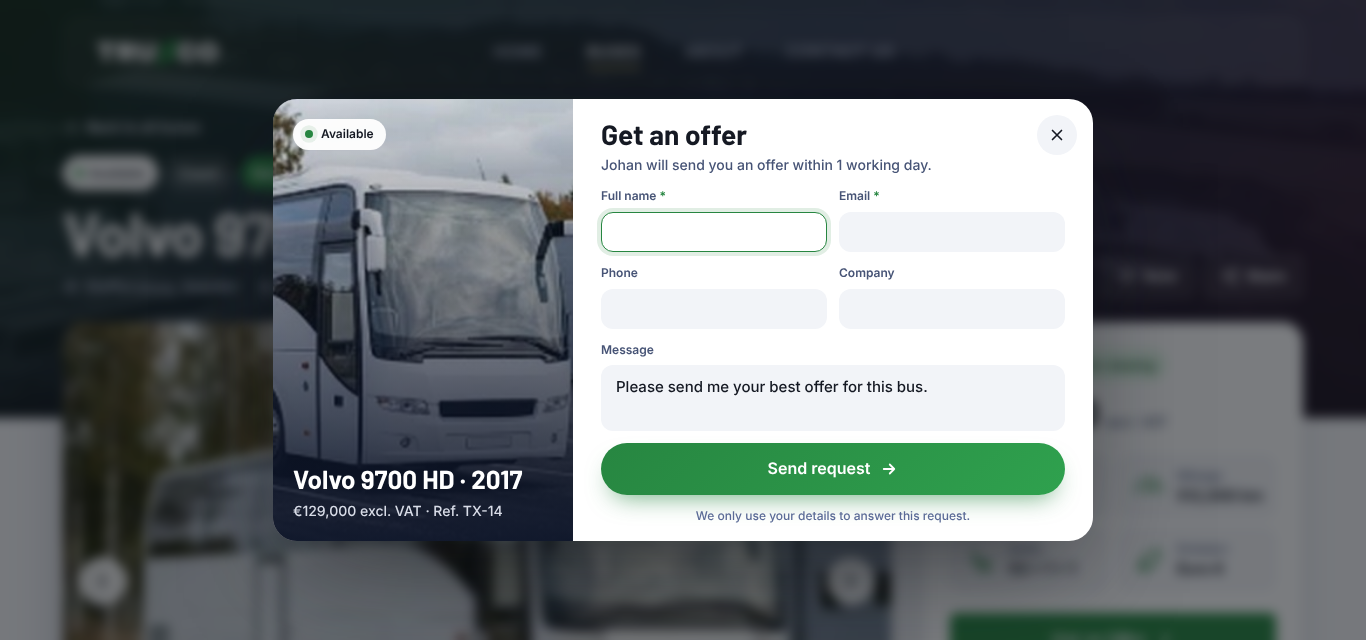
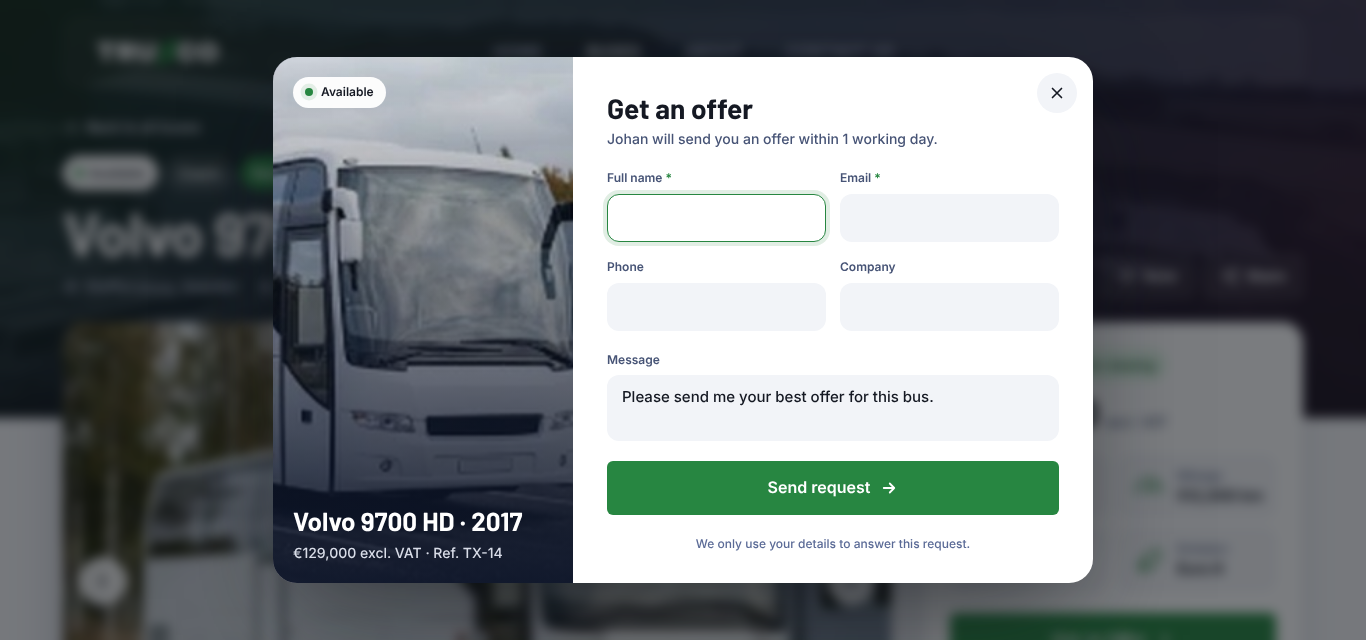
Truxco record: standard green button and roomier offer popup
Claude-Session: https://claude.ai/code/session_01CJrfSMbtJkdqaRmDBKHX4E

Changed region(s): [[0.1845, 0.0625, 0.7994, 0.9375], [0.6149, 0.4062, 0.6764, 0.4375]]

diff --git a/truxco-design/website-v2/BusDetail.dc.html b/truxco-design/website-v2/BusDetail.dc.html
@@ -50,20 +50,20 @@ a{color:#3050A6}a:hover{color:#151923}
 .of-side-body{display:flex;flex-direction:column;gap:6px}
 .of-chip{display:inline-flex;align-items:center;gap:8px;font-size:12px;font-weight:600;color:#151923;background:rgba(255,255,255,0.95);padding:6px 12px;border-radius:999px}
 .of-perks{list-style:none;margin:10px 0 0;padding:12px 0 0;border-top:1px solid rgba(255,255,255,0.14);display:flex;flex-direction:column;gap:6px;font-size:13px;color:#D9DDE8}.of-perks li{display:flex;align-items:center;gap:8px}
-.of-main{padding:26px 28px 22px;display:flex;flex-direction:column;justify-content:center}
-.of-form{display:flex;flex-direction:column;gap:16px}
+.of-main{padding:36px 34px 30px;display:flex;flex-direction:column;justify-content:center}
+.of-form{display:flex;flex-direction:column;gap:20px}
 .of-x{position:absolute;z-index:2;top:16px;right:16px;width:40px;height:40px;border-radius:50%;border:0;background:#F2F4F8;color:#151923;display:flex;align-items:center;justify-content:center;cursor:pointer;transition:background .15s,transform .2s}.of-x:hover{background:#E3E6EE;transform:rotate(90deg)}
-.of-grid{display:grid;grid-template-columns:repeat(2,minmax(0,1fr));gap:12px}
+.of-grid{display:grid;grid-template-columns:repeat(2,minmax(0,1fr));gap:16px 14px}
 .of-f{display:flex;flex-direction:column;gap:6px}.of-f label{font-size:12px;font-weight:600;color:#475476}
-.of-in{font:inherit;font-size:15px;width:100%;box-sizing:border-box;height:44px;padding:0 14px;border:1.5px solid transparent;border-radius:12px;background:#F2F4F8;color:#151923;transition:background .15s,border-color .15s,box-shadow .15s}.of-in:hover{background:#ECEEF4}.of-ta{height:auto!important;padding:10px 14px;resize:none;line-height:1.45}
+.of-in{font:inherit;font-size:15px;width:100%;box-sizing:border-box;height:48px;padding:0 14px;border:1.5px solid transparent;border-radius:12px;background:#F2F4F8;color:#151923;transition:background .15s,border-color .15s,box-shadow .15s}.of-in:hover{background:#ECEEF4}.of-ta{height:auto!important;padding:10px 14px;resize:none;line-height:1.45}
 .of-in:focus{outline:none;background:#FFFFFF;border-color:#278641;box-shadow:0 0 0 4px rgba(39,134,65,0.14)}
-.of-submit{font:inherit;display:flex;align-items:center;justify-content:center;gap:10px;width:100%;height:52px;border:0;border-radius:999px;background:linear-gradient(135deg,#278641 0%,#2FA14E 100%);color:#FFFFFF;font-weight:600;font-size:16px;cursor:pointer;box-shadow:0 12px 24px -10px rgba(39,134,65,0.65);transition:transform .15s,box-shadow .15s}.of-submit:hover{transform:translateY(-1px)}.of-submit svg{transition:transform .15s}.of-submit:hover svg{transform:translateX(3px)}
+.of-submit{font:inherit;display:flex;align-items:center;justify-content:center;gap:10px;width:100%;height:54px;border:0;border-radius:6px;background:#278641;color:#FFFFFF;font-weight:600;font-size:16px;cursor:pointer;transition:background .15s}.of-submit:hover{background:#1F6E35}.of-submit svg{transition:transform .15s}.of-submit:hover svg{transform:translateX(3px)}
 .of-agent{display:flex;align-items:center;justify-content:center;gap:8px;font-size:12px;color:#5A6A96}.of-av{flex:none;width:24px;height:24px;border-radius:50%;background:#278641;color:#FFFFFF;font-size:10px;font-weight:700;display:flex;align-items:center;justify-content:center}
 .of-x:focus-visible,.of-submit:focus-visible{outline:2px solid #278641;outline-offset:3px}
 @keyframes ofFade{from{opacity:0}}@keyframes ofIn{from{opacity:0;transform:translateY(16px) scale(.97)}}
-@media (max-width: 760px){.of-dialog{grid-template-columns:minmax(0,1fr);max-width:480px;border-radius:20px}.of-side{height:104px;padding:12px 16px;justify-content:flex-end}.of-side-top{position:absolute;top:12px;left:16px}.of-perks,.of-side-meta{display:none}.of-side-body{gap:0}.of-side-name{font-size:21px!important}.of-main{padding:18px 18px 16px}.of-form{gap:12px}.of-x{background:rgba(255,255,255,0.92)}}
-@media (max-width: 480px){.of-wrap{padding:10px}.of-in{font-size:16px}.of-grid{gap:10px}}
-@media (max-height: 700px){.of-main{padding-top:20px;padding-bottom:16px}.of-form{gap:12px}.of-in{height:40px}}
+@media (max-width: 760px){.of-dialog{grid-template-columns:minmax(0,1fr);max-width:480px;border-radius:20px}.of-side{height:104px;padding:12px 16px;justify-content:flex-end}.of-side-top{position:absolute;top:12px;left:16px}.of-perks,.of-side-meta{display:none}.of-side-body{gap:0}.of-side-name{font-size:21px!important}.of-main{padding:20px 18px 18px}.of-form{gap:14px}.of-x{background:rgba(255,255,255,0.92)}}
+@media (max-width: 480px){.of-wrap{padding:10px}.of-in{font-size:16px;height:44px}.of-grid{gap:12px 10px}.of-submit{height:52px}}
+@media (max-height: 600px){.of-main{padding-top:20px;padding-bottom:16px}.of-form{gap:12px}.of-in{height:40px}}
 @media (max-height: 600px){.of-agent{display:none}.of-side{height:72px}.of-side-top{display:none}}
 @media (prefers-reduced-motion: reduce){.of-overlay,.of-dialog{animation:none}.of-x:hover{transform:none}}
 .bd-tag{display:inline-flex;align-items:center;gap:6px;font-size:13px;font-weight:600;color:#FFFFFF;padding:6px 12px;border-radius:999px}
@@ -512,7 +512,7 @@ a{color:#3050A6}a:hover{color:#151923}
 <span aria-hidden="true" style="width: 68px; height: 68px; border-radius: 50%; background: linear-gradient(135deg, #278641, #3CD064); display: flex; align-items: center; justify-content: center; box-shadow: 0 12px 24px -8px rgba(39,134,65,0.6)"><svg aria-hidden="true" width="32" height="32" viewBox="0 0 24 24" fill="none" stroke="#FFFFFF" stroke-width="2.4" stroke-linecap="round" stroke-linejoin="round"><path d="M5 12.5l4.5 4.5L19 7.5"></path></svg></span>
 <h2 id="of-title" role="status" style="margin: 0; font-family: 'Barlow', sans-serif; font-weight: 700; font-size: 28px; color: #151923">Request sent</h2>
 <p style="margin: 0; font-size: 15px; color: #475476; max-width: 34ch">Thanks! Johan Andersson will send you an offer for the Volvo 9700 HD within 1 working day.</p>
-<button type="button" class="of-submit" style="margin-top: 8px; background: #0E162A; box-shadow: none" onClick="{{closeOffer}}">Close</button>
+<button type="button" class="of-submit" style="margin-top: 8px" onClick="{{closeOffer}}">Close</button>
 </div>
 </sc-if>
 </div>

diff --git a/truxco-design/DESIGN-NOTES.md b/truxco-design/DESIGN-NOTES.md
@@ -193,3 +193,8 @@ Second artboard "UsedBuses.dc.html" in the V2 preview (https://claude.ai/artifac
   - Success state: "Thanks! …" text and a Close button.
   - Photo is cropped to the bus front (object-position 78% 40%).
   - Still no scroll. Checked heights: 1366×640 → 442px, 375×667 → 593px, 320×568 → 530px.
+- Get an Offer popup changes:
+  - Buttons: Send request and Close now use the site's standard green button (solid #278641, 6px corners, hover #1F6E35, 54px tall). The gradient pill is gone.
+  - Size: the popup is a bit taller and roomier, with 36/34px padding, 20px gaps and 48px inputs.
+  - Still no scroll. Checked heights: 1366×640 → 526px, 375×667 → 613px, 320×568 → 532px.
+  - Small screens: the compact sizes only apply under 600px screen height.
